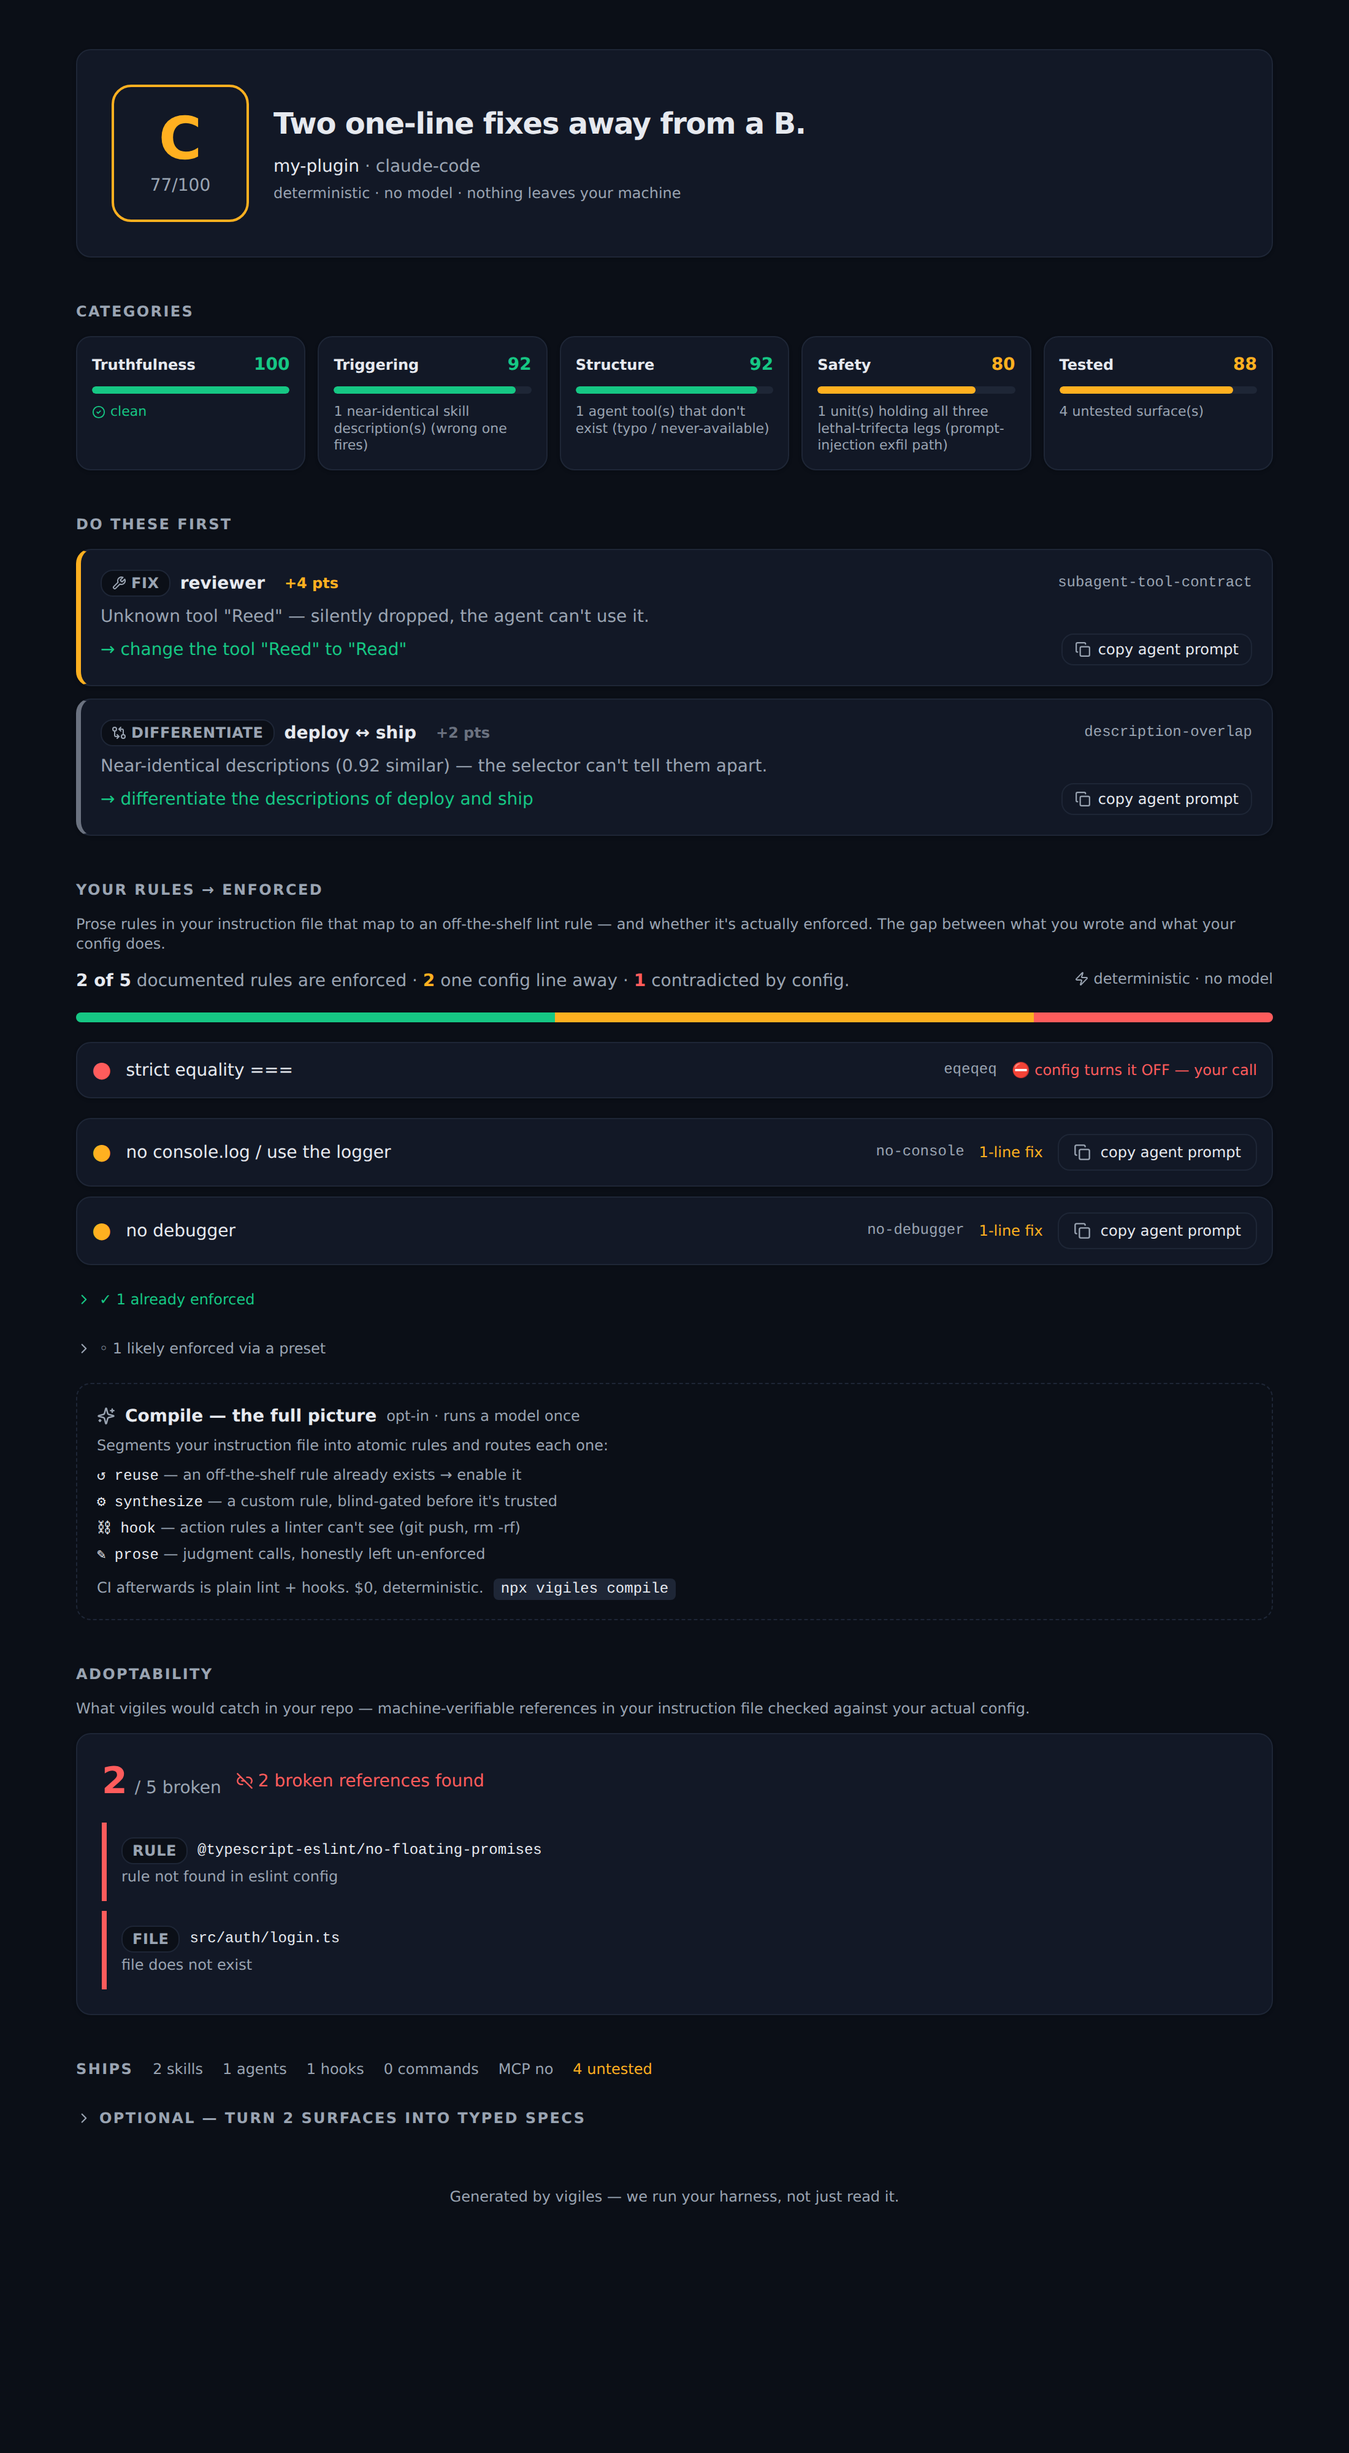
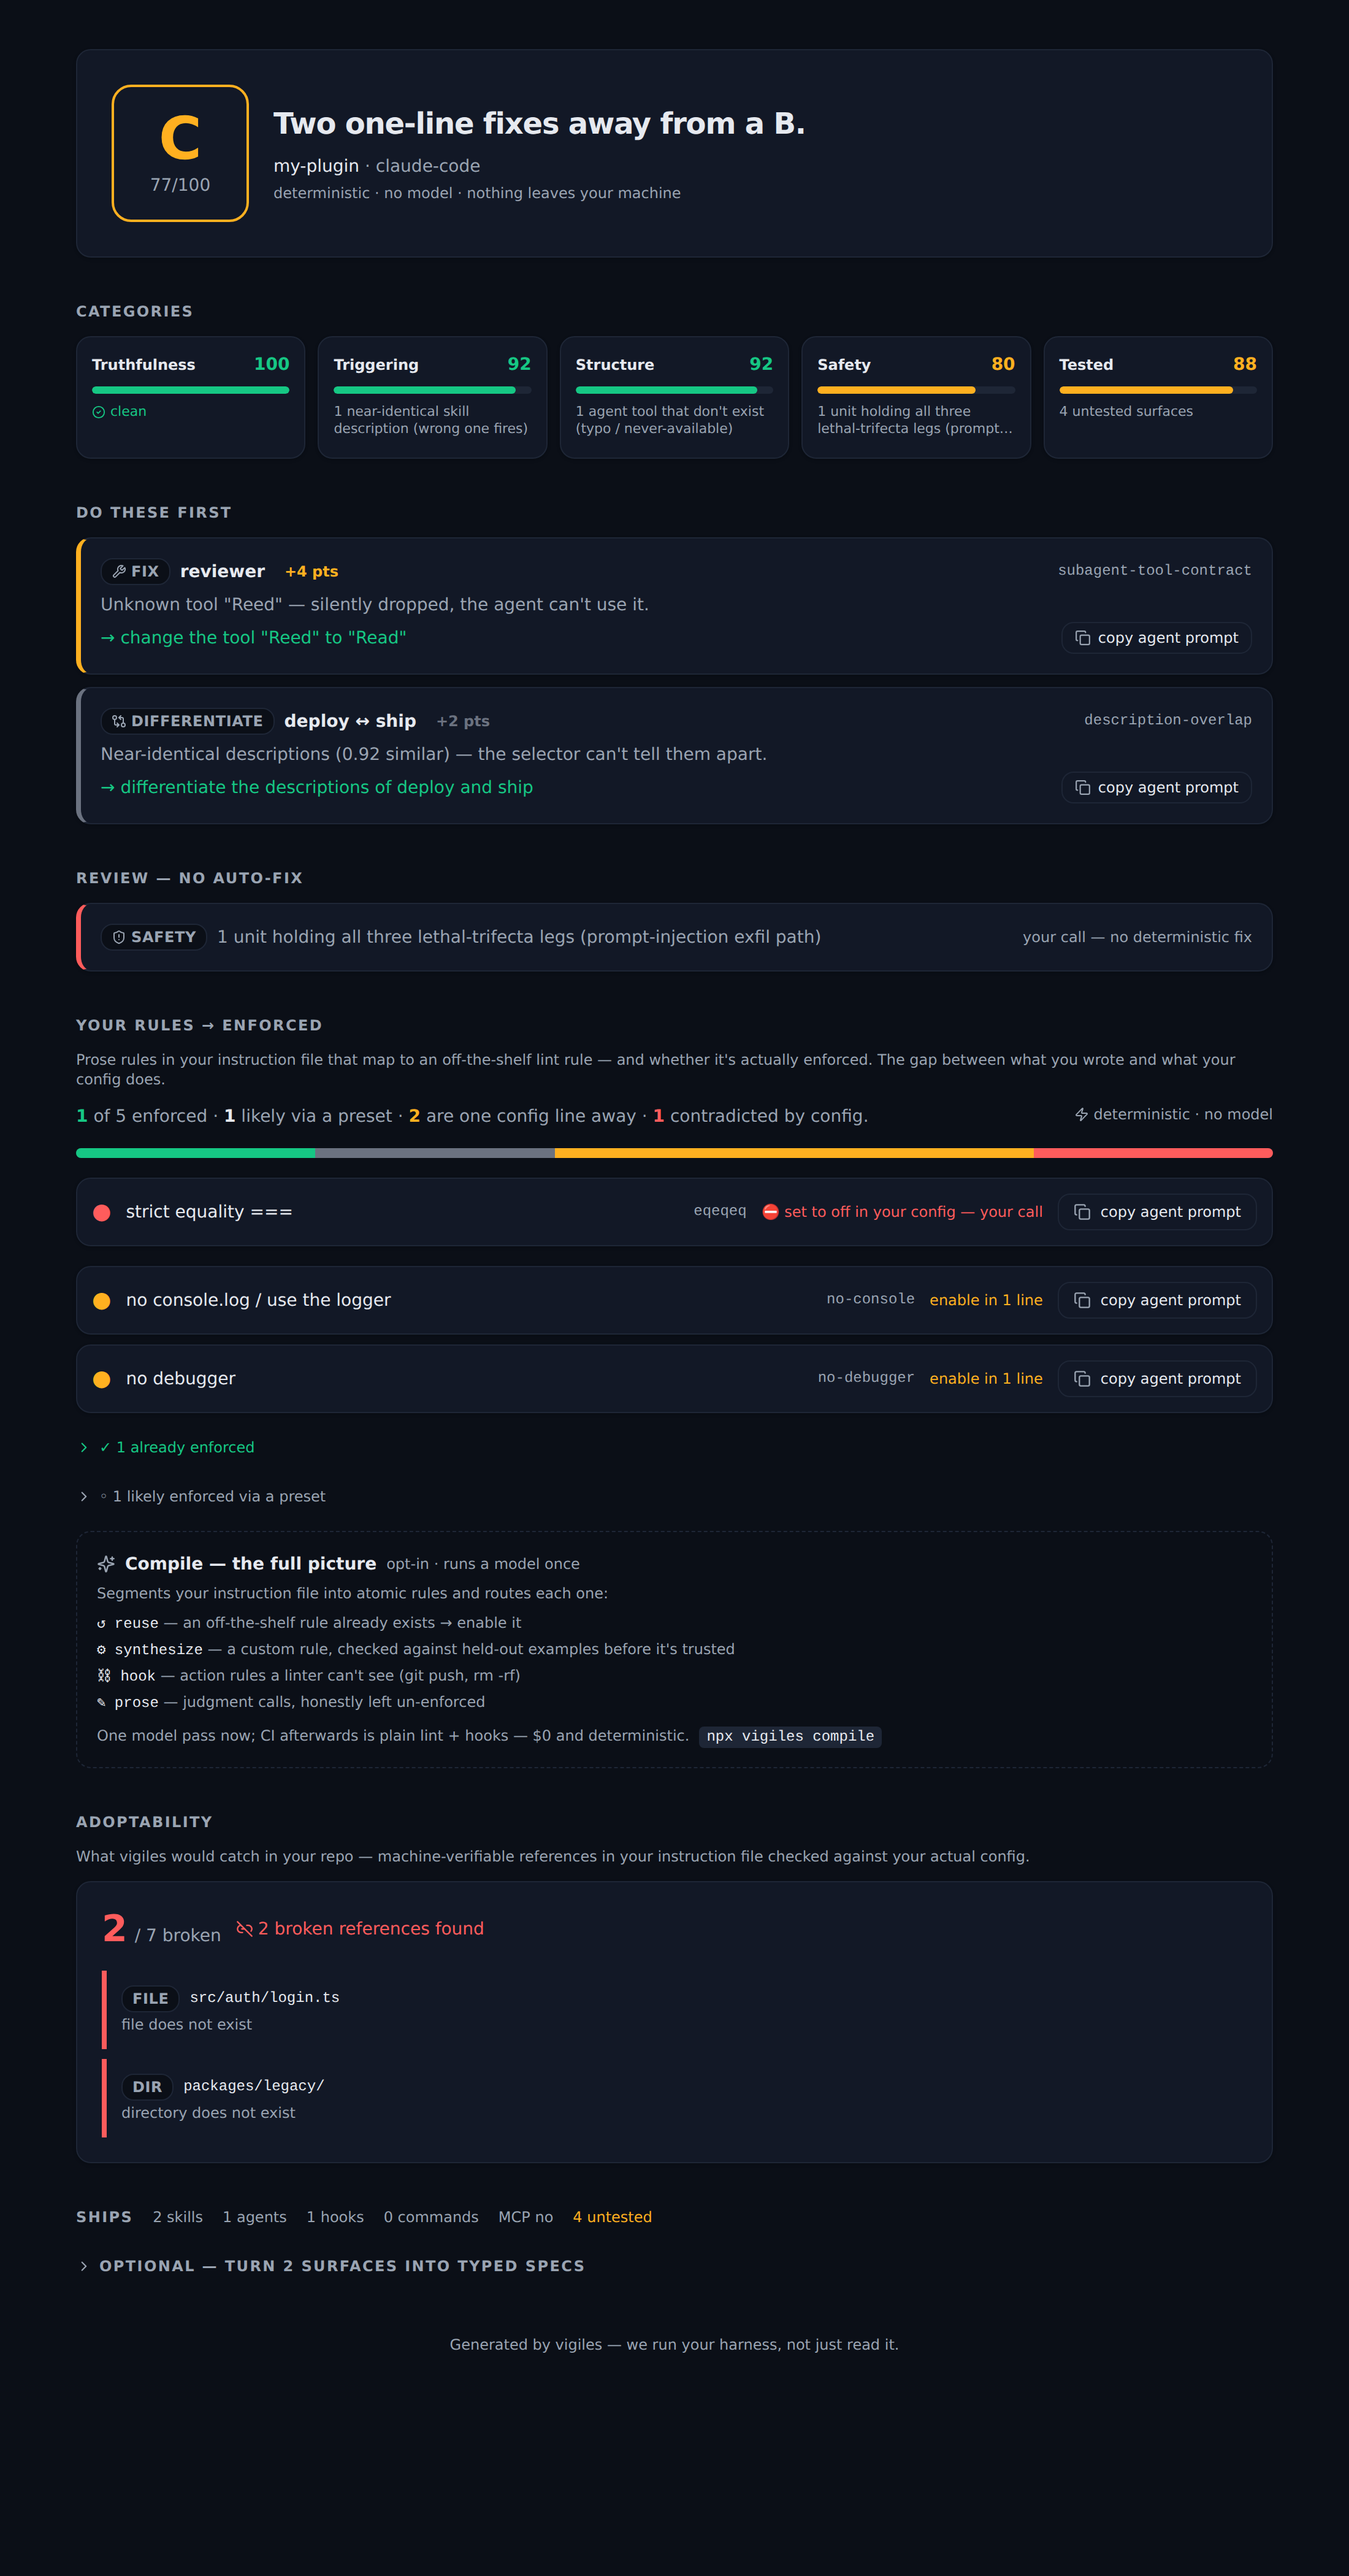
audit report: apply Fable review — honesty + hierarchy fixes
- Rules headline no longer rounds 'preset-maybe' up to 'enforced' (the tool's
  whole pitch is that config lies about rules): counts + colours enforced,
  preset, one-line, and contradiction separately, with a 4th preset bar segment.
- Contradiction row ('the one people screenshot') gains a copy-agent-prompt
  (a decision prompt, since the rule is present-but-off) and reads 'set to off
  in your config'; one-line rows relabelled 'enable in 1 line' to stop colliding
  with the verdict's point-scoring 'fixes'.
- New 'Review — no auto-fix' section surfaces Safety findings (the lethal-
  trifecta exfil path) as cards — the report's severest finding was previously
  only 11px category-strip text with no card (it maps to no recommendation).
- Category findings de-printf'd at the render layer ('1 tool(s)' → '1 tool');
  scorer strings untouched. Compile CTA drops 'blind-gated' internal vocab.
- Sample fixture: broken refs are now file/dir (not a lint rule) so Adoptability
  no longer visually collides with the Rules hero; re-rendered the screenshot.
- README Proof 3 reframed as representative reader's-repo output (not a claimed
  public-plugin catch under the 'real scans' banner) with reconciled numbers.

Claude-Session: https://claude.ai/code/session_012vN4N2WCoaxzvoDVVGMynP

diff --git a/report/src/components/RuleInventory.tsx b/report/src/components/RuleInventory.tsx
@@ -15,9 +15,13 @@ const BTN =
  */
 function CopyPrompt({ item }: { item: RuleInventoryItem }) {
   const [copied, setCopied] = useState(false);
+  // A contradiction needs a DECISION prompt (the rule is present but disabled),
+  // not an "add this line" prompt — the config already mentions it.
   const prompt =
-    `In this repo, enable the ${item.linter} rule \`${item.rule}\` (set it to "error") in the lint config, ` +
-    `so the documented rule "${item.intent}" is actually enforced. Config to add: ${item.configFix}`;
+    item.configState === "contradiction"
+      ? `In this repo, the ${item.linter} rule \`${item.rule}\` is set to "off" in the lint config, but the instructions document "${item.intent}" as a rule. Resolve the contradiction: either remove the override so \`${item.rule}\` is enforced (${item.configFix}), or drop the documented rule if it's intentionally off.`
+      : `In this repo, enable the ${item.linter} rule \`${item.rule}\` (set it to "error") in the lint config, ` +
+        `so the documented rule "${item.intent}" is actually enforced. Config to add: ${item.configFix}`;
   const copy = (): void => {
     void navigator.clipboard?.writeText(prompt).then(
       () => {
@@ -147,18 +151,30 @@ export function RuleInventory({ data }: { data: RuleInventoryItem[] }) {
   return (
     <div className="space-y-4">
       <div className="flex flex-wrap items-baseline justify-between gap-2">
+        {/* A tool whose pitch is "your config lies about your rules" must not
+            round a maybe up to a yes: `enforced` and `preset-maybe` are counted
+            (and coloured) separately. */}
         <p className="text-sm text-muted-foreground">
-          <span className="font-semibold text-foreground">
-            {enforced.length + preset.length} of {total}
+          <span className={cn("font-semibold", TEXT.good)}>
+            {enforced.length}
           </span>{" "}
-          documented rules are enforced
+          of {total} enforced
+          {preset.length > 0 && (
+            <>
+              {" · "}
+              <span className="font-semibold text-foreground">
+                {preset.length}
+              </span>{" "}
+              likely via a preset
+            </>
+          )}
           {oneLine.length > 0 && (
             <>
               {" · "}
               <span className={cn("font-semibold", TEXT.warn)}>
                 {oneLine.length}
               </span>{" "}
-              one config line away
+              {oneLine.length === 1 ? "is" : "are"} one config line away
             </>
           )}
           {contradiction.length > 0 && (
@@ -178,7 +194,8 @@ export function RuleInventory({ data }: { data: RuleInventoryItem[] }) {
       </div>
 
       <div className="flex h-2 overflow-hidden rounded-full bg-border">
-        {seg(enforced.length + preset.length, BG.good)}
+        {seg(enforced.length, BG.good)}
+        {seg(preset.length, BG.na)}
         {seg(oneLine.length, BG.warn)}
         {seg(contradiction.length, BG.bad)}
       </div>
@@ -192,7 +209,8 @@ export function RuleInventory({ data }: { data: RuleInventoryItem[] }) {
               key={item.rule}
               item={item}
               tone="bad"
-              label="⛔ config turns it OFF — your call"
+              label="⛔ set to off in your config — your call"
+              action
             />
           ))}
         </div>
@@ -206,7 +224,7 @@ export function RuleInventory({ data }: { data: RuleInventoryItem[] }) {
               key={item.rule}
               item={item}
               tone="warn"
-              label="1-line fix"
+              label="enable in 1 line"
               action
             />
           ))}
@@ -255,7 +273,7 @@ export function RuleInventory({ data }: { data: RuleInventoryItem[] }) {
           </li>
           <li>
             <span className="font-mono text-foreground">⚙ synthesize</span> — a
-            custom rule, blind-gated before it's trusted
+            custom rule, checked against held-out examples before it's trusted
           </li>
           <li>
             <span className="font-mono text-foreground">⛓ hook</span> — action
@@ -267,7 +285,8 @@ export function RuleInventory({ data }: { data: RuleInventoryItem[] }) {
           </li>
         </ul>
         <p className="mt-2.5 text-xs text-muted-foreground">
-          CI afterwards is plain lint + hooks. $0, deterministic.
+          One model pass now; CI afterwards is plain lint + hooks — $0 and
+          deterministic.
           <code className="ml-2 rounded bg-border px-1.5 py-0.5 font-mono text-foreground">
             npx vigiles compile
           </code>

diff --git a/report/src/Report.tsx b/report/src/Report.tsx
@@ -6,6 +6,7 @@ import {
   ChevronRight,
   Copy,
   Check,
+  ShieldAlert,
 } from "lucide-react";
 import type {
   AuditReport,
@@ -26,6 +27,15 @@ import { cn } from "@/lib/utils";
 function basename(dir: string): string {
   const parts = dir.replace(/[/\\]+$/, "").split(/[/\\]/);
   return parts[parts.length - 1] || dir;
+}
+
+/** Resolve the scorer's terse "N thing(s)" labels for display — "1 tool(s)" →
+ * "1 tool", "3 tool(s)" → "3 tools" — so the report doesn't read as printf
+ * output. Cosmetic only; the scorer's canonical strings are untouched. */
+function humanizeFinding(text: string): string {
+  const m = /^(\d+)\s/.exec(text);
+  const n = m ? Number(m[1]) : 2;
+  return text.replace(/\(s\)/g, n === 1 ? "" : "s");
 }
 
 /** Impact band for a fix: bigger score gain ⇒ hotter. Never green (green =
@@ -123,11 +133,19 @@ function CategoryCell({ c }: { c: CategoryScore }) {
           style={{ width: `${pct}%` }}
         />
       </div>
-      <div className="min-h-8 text-[11px] leading-tight text-muted-foreground">
+      <div className="h-8 overflow-hidden text-[11px] leading-tight text-muted-foreground">
         {c.advisory ? (
           <span className="text-na">advisory — not graded</span>
         ) : c.findings.length > 0 ? (
-          c.findings.join("; ")
+          <span className="line-clamp-2">
+            {humanizeFinding(c.findings[0])}
+            {c.findings.length > 1 && (
+              <span className="text-foreground">
+                {" "}
+                · +{c.findings.length - 1} more
+              </span>
+            )}
+          </span>
         ) : (
           <span className="inline-flex items-center gap-1 text-good">
             <CheckCircle2 size={11} /> clean
@@ -244,6 +262,41 @@ export function Report({ data }: { data: AuditReport }) {
           clean.
         </Card>
       )}
+
+      {/* Safety findings have no auto-fix (the lethal-trifecta exfil path is a
+          design call, not a typo) — so they never appear as a ranked +N-pts card.
+          Surface them here as review items so the report's most severe finding
+          isn't buried in 11px category-strip text. */}
+      {(() => {
+        const safety = score.categories.find((c) => c.key === "Safety");
+        if (!safety || safety.advisory || safety.findings.length === 0)
+          return null;
+        return (
+          <>
+            <h2 className="mb-3 mt-9 text-xs font-semibold uppercase tracking-widest text-muted-foreground">
+              Review — no auto-fix
+            </h2>
+            <div className="flex flex-col gap-2.5">
+              {safety.findings.map((f, i) => (
+                <Card key={i} className={cn("border-l-4 p-4", BORDER_L.bad)}>
+                  <div className="flex flex-wrap items-center gap-2 text-sm">
+                    <Badge>
+                      <ShieldAlert size={12} className="mr-1" />
+                      safety
+                    </Badge>
+                    <span className="text-muted-foreground">
+                      {humanizeFinding(f)}
+                    </span>
+                    <span className="ml-auto text-xs text-muted-foreground">
+                      your call — no deterministic fix
+                    </span>
+                  </div>
+                </Card>
+              ))}
+            </div>
+          </>
+        );
+      })()}
 
       {rulesInventory && rulesInventory.length > 0 && (
         <>

diff --git a/report/src/sample.ts b/report/src/sample.ts
@@ -96,18 +96,18 @@ export const SAMPLE: AuditReport = {
     ],
   },
   adoptability: {
-    total: 5,
+    total: 7,
     broken: 2,
     brokenRefs: [
-      {
-        kind: "enforce",
-        ref: "@typescript-eslint/no-floating-promises",
-        issue: "rule not found in eslint config",
-      },
       {
         kind: "file",
         ref: "src/auth/login.ts",
         issue: "file does not exist",
+      },
+      {
+        kind: "dir",
+        ref: "packages/legacy/",
+        issue: "directory does not exist",
       },
     ],
   },

diff --git a/README.md b/README.md
@@ -144,13 +144,15 @@ One popular plugin ships **45 pairs** of near-identical skill descriptions. Your
 
 ## Proof 3 — a rule you wrote that nothing enforces
 
+Point vigiles at your own repo and the rules section maps each prose rule to the lint rule that enforces it — then checks your config. Representative output:
+
 ```text
-Your rules → enforced   2 of 5 · 2 one config line away · 1 contradicted by config
-    └ "always use ===" → eqeqeq is in your ESLint config, set to "off"
+Your rules → enforced   1 of 4 enforced · 2 one line away · 1 contradicted by config
+    └ "always use ===" → eqeqeq is set to "off" in your ESLint config
        your CLAUDE.md says enforce it; your config quietly turns it off
 ```
 
-You wrote the rule. Your agent treats it as gospel and follows it — until it doesn't, and nothing tells you which time. vigiles maps each prose rule to the off-the-shelf lint rule that _actually_ enforces it, then checks your config: on, **one line away**, or — the one people screenshot — documented but silently **turned off**. Deterministic, no model. Want the rest compiled — a custom rule for a rule no linter ships, a hook for `git push`, the judgment calls honestly left alone? That's the opt-in `compile` tier (one model pass, then CI is plain lint).
+You wrote the rule. Your agent treats it as gospel and follows it — until it doesn't, and nothing tells you which time. vigiles checks each mapped rule three ways: enforced, **one line away**, or — the one people screenshot — documented but silently **turned off**. Deterministic, no model. Want the rest compiled — a custom rule for a rule no linter ships, a hook for `git push`, the judgment calls honestly left alone? That's the opt-in `compile` tier (one model pass, then CI is plain lint).
 **[How enforcement works →](docs/verifying-instruction-files.md)**
 
 ## Proof 4 — it can quietly read your secrets and send them out
